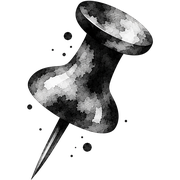
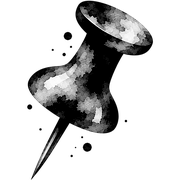
fix(note-rapide): illustrations des intercalaires en masque de la couleur
Les PNG deviennent des masques (l'encre = l'opacité, le grain de
l'aquarelle garde sa transparence), teintés d'un ton plus sombre de la
couleur de l'intercalaire au lieu d'une encre noire en multiply.

diff --git a/components/ui/CategoryPicker.tsx b/components/ui/CategoryPicker.tsx
@@ -68,8 +68,8 @@ export default function CategoryPicker({ value, onChange, layout = 'grid' }: Cat
 
 /**
  * Les intercalaires : on tire celui de la couleur voulue, il dépasse plus que les
- * autres. Pas de mot : l'illustration de la catégorie, en bas, coupée par le bord
- * et fondue dans la couleur (VoiceOver lit le nom).
+ * autres. Pas de mot : l'illustration de la catégorie, en bas, coupée par le bord,
+ * dans un ton plus sombre de la couleur (VoiceOver lit le nom).
  */
 function CategoryTabs({ value, onChange }: Pick<CategoryPickerProps, 'value' | 'onChange'>) {
   return (
@@ -95,7 +95,8 @@ function CategoryTabs({ value, onChange }: Pick<CategoryPickerProps, 'value' | '
             />
             <Image
               source={CATEGORY_ICONS[key]}
-              style={[styles.tabIcon, selected && styles.tabIconOn]}
+              style={styles.tabIcon}
+              tintColor={shade(option.color, selected ? 0.62 : 0.78)}
               contentFit="contain"
             />
           </PressableScale>
@@ -163,17 +164,13 @@ const styles = StyleSheet.create({
   tabOn: {
     height: TAB_TUCK + 40,
   },
-  // L'illustration sort par le bas, coupée, fondue dans la couleur
+  // L'illustration sort par le bas, coupée : un masque, teinté d'un ton plus
+  // sombre que l'intercalaire (le grain de l'aquarelle est dans la transparence)
   tabIcon: {
     position: 'absolute',
     alignSelf: 'center',
     bottom: -TAB_ICON * 0.3,
     width: TAB_ICON,
     height: TAB_ICON,
-    opacity: 0.4,
-    mixBlendMode: 'multiply',
-  },
-  tabIconOn: {
-    opacity: 0.75,
   },
 });
